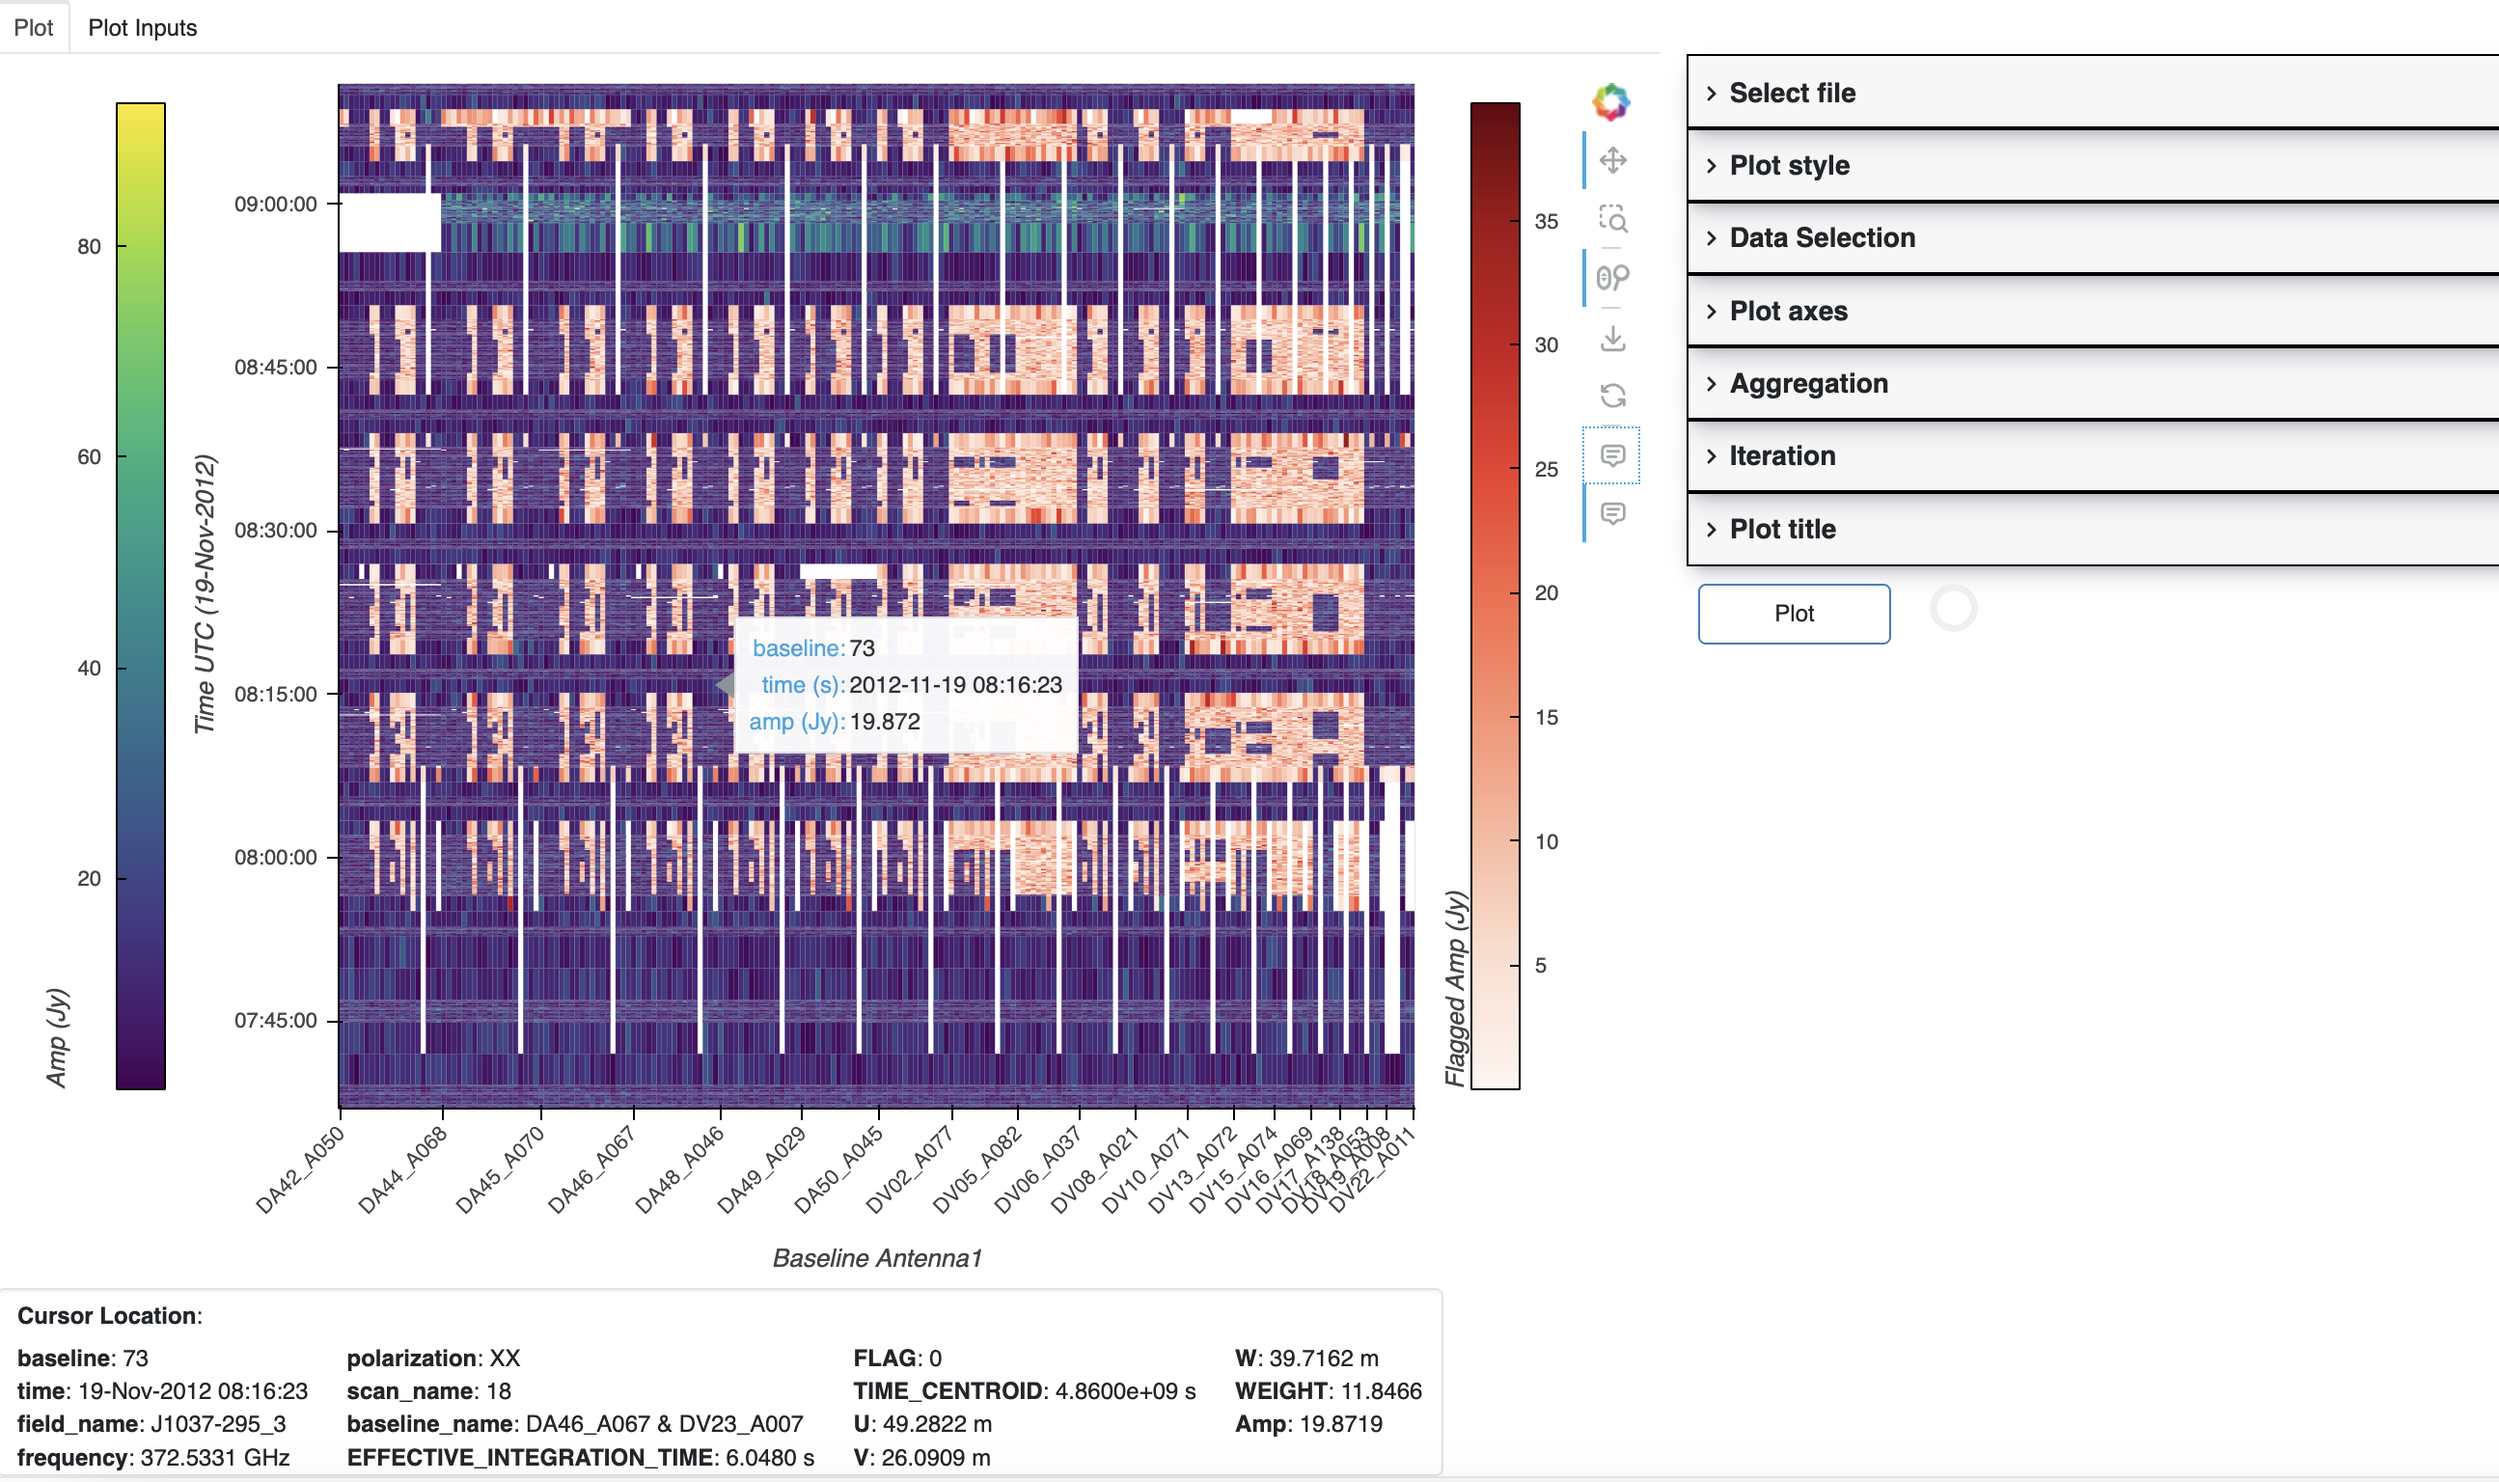
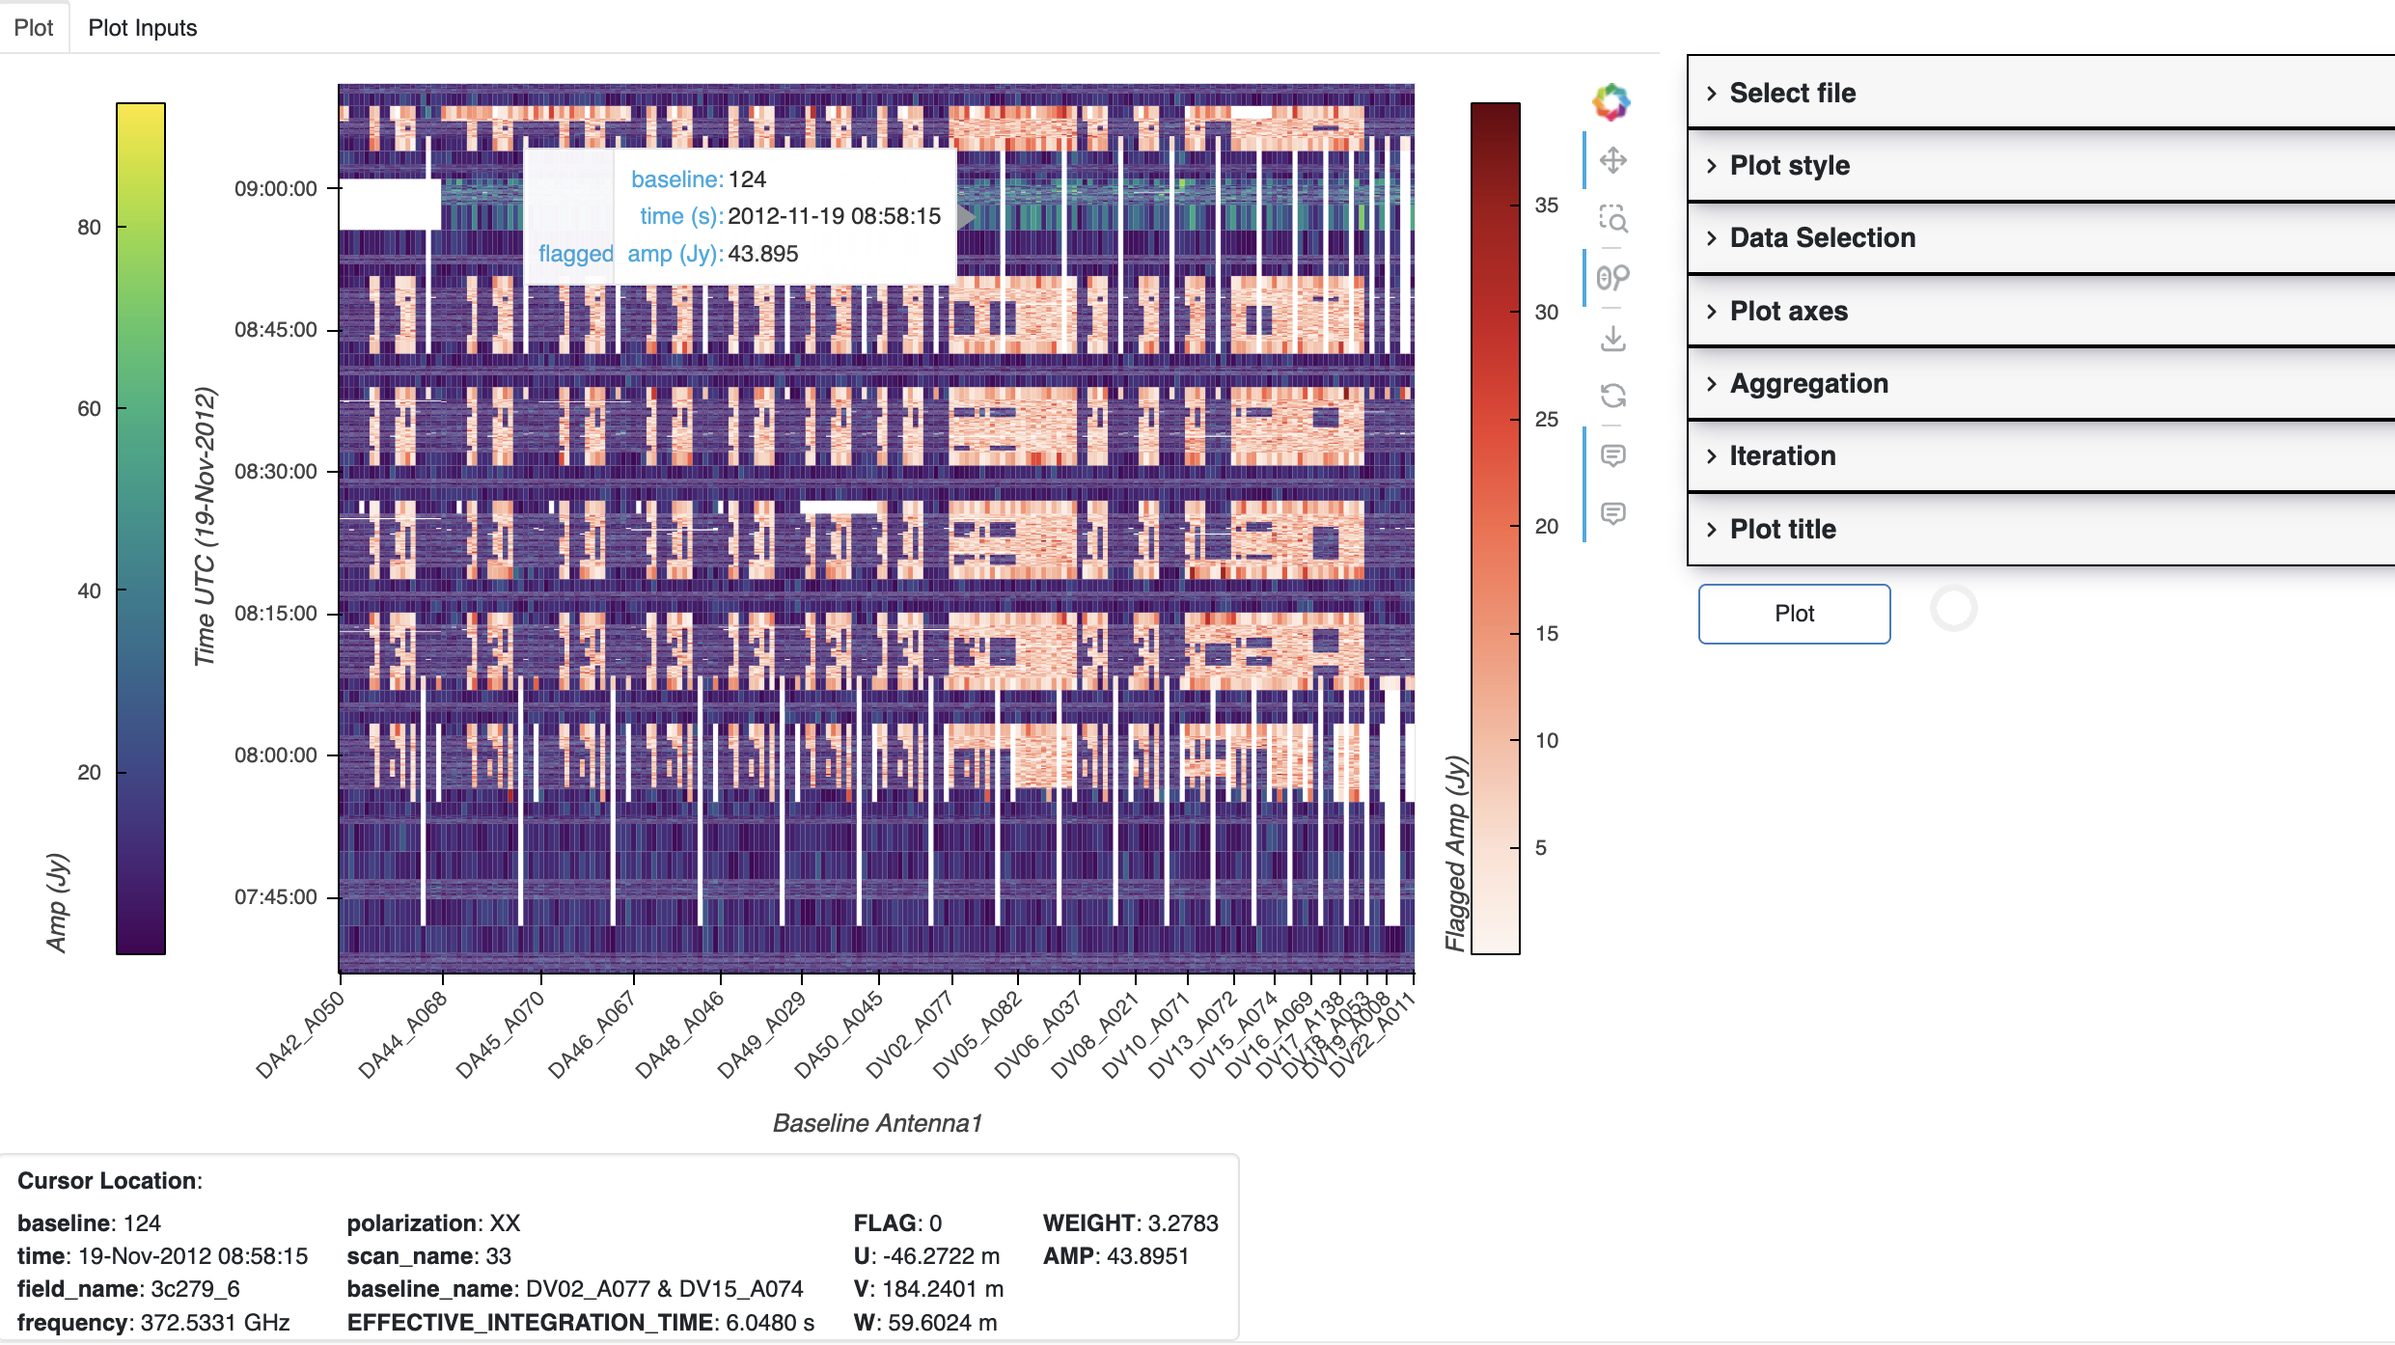
Cursor location bug fixes

diff --git a/src/vidavis/data/measurement_set/processing_set/_ps_data.py b/src/vidavis/data/measurement_set/processing_set/_ps_data.py
@@ -29,8 +29,7 @@ class PsData:
         if not ms:
             raise RuntimeError("MS path not available for reading MeasurementSet")
 
-        # Open processing set from zarr
-        # Converts msv2 if ms path is not zarr
+        # Open processing set from zarr. Converts msv2 if ms path is not zarr
         self._ps_xdt, self._zarr_path = get_processing_set(ms, logger)
 
         self._logger = logger
@@ -120,6 +119,7 @@ class PsData:
     def get_dimension_values(self, dimension):
         ''' Return sorted list of unique values for input dimension in selected ProcessingSet.
             For 'time', returns datetime strings.
+            For spectrum datasets, 'antenna2' returns empty list.
         '''
         ps_xdt = self._get_ps_xdt()
         dim_values = []
@@ -134,11 +134,18 @@ class PsData:
             elif dimension == 'antenna2':
                 dimension = 'baseline_antenna2_name'
             for ms_xdt in ps_xdt.values():
+                if dimension not in ms_xdt.coords:
+                    if 'antenna1' in dimension and 'antenna_name' in ms_xdt.coords:
+                        dimension = 'antenna_name' # spectrum dataset
+                    else:
+                        continue
                 try:
                     dim_values.extend([value.item() for value in ms_xdt[dimension].values])
                 except TypeError:
                     dim_values.append(ms_xdt[dimension].values.item())
 
+        if not dim_values:
+            return dim_values
         return sorted(set(dim_values))
 
     def _get_time_strings(self, ps):
@@ -152,13 +159,17 @@ class PsData:
         return times
 
     def _get_baselines(self, ps):
-        ''' Return baseline strings as ant1_name & ant2_name '''
+        ''' Return baseline strings as ant1_name & ant2_name.
+            For spectrum datasets, return list of antenna_name. '''
         baselines = []
         for ms_xdt in ps.values():
-            ant1_names = ms_xdt.baseline_antenna1_name.values
-            ant2_names = ms_xdt.baseline_antenna2_name.values
-            for ant1, ant2 in zip(ant1_names, ant2_names):
-                baselines.append(f"{ant1} & {ant2}")
+            if 'antenna_name' in ms_xdt.coords:
+                baselines.extend(ms_xdt.antenna_name.values)
+            else:
+                ant1_names = ms_xdt.baseline_antenna1_name.values
+                ant2_names = ms_xdt.baseline_antenna2_name.values
+                for ant1, ant2 in zip(ant1_names, ant2_names):
+                    baselines.append(f"{ant1} & {ant2}")
         return baselines
 
     def get_dimension_attrs(self, dim):

diff --git a/src/vidavis/apps/_ms_raster.py b/src/vidavis/apps/_ms_raster.py
@@ -841,11 +841,14 @@ class MsRaster(MsPlot):
                 xds = set_index_coordinates(self._plot_data, tuple(cursor_position.keys()))
                 sel_xds = xds.sel(indexers=None, method='nearest', tolerance=None, drop=False, **cursor_position)
                 for coord in sel_xds.coords:
-                    if coord != 'uvw_label':
-                        val, unit = self._get_xda_val_unit(sel_xds[coord])
-                        values[coord] = val
-                        units[coord] = unit
+                    if coord == 'uvw_label' or ('baseline_antenna' in coord and 'baseline_name' in sel_xds.coords):
+                        continue
+                    val, unit = self._get_xda_val_unit(sel_xds[coord])
+                    values[coord] = val
+                    units[coord] = unit
                 for data_var in sel_xds.data_vars:
+                    if 'TIME_CENTROID' in data_var:
+                        continue
                     val, unit = self._get_xda_val_unit(sel_xds[data_var])
                     if data_var == 'UVW':
                         names = ['U', 'V', 'W']
@@ -860,7 +863,7 @@ class MsRaster(MsPlot):
 
         # Set complex component name for visibilities
         if 'VISIBILITY' in values:
-            values[self._plot_inputs['vis_axis'].capitalize()] = values.pop('VISIBILITY')
+            values[self._plot_inputs['vis_axis'].upper()] = values.pop('VISIBILITY')
         return values, units
 
     def _update_cursor_box(self, location_values, units):
